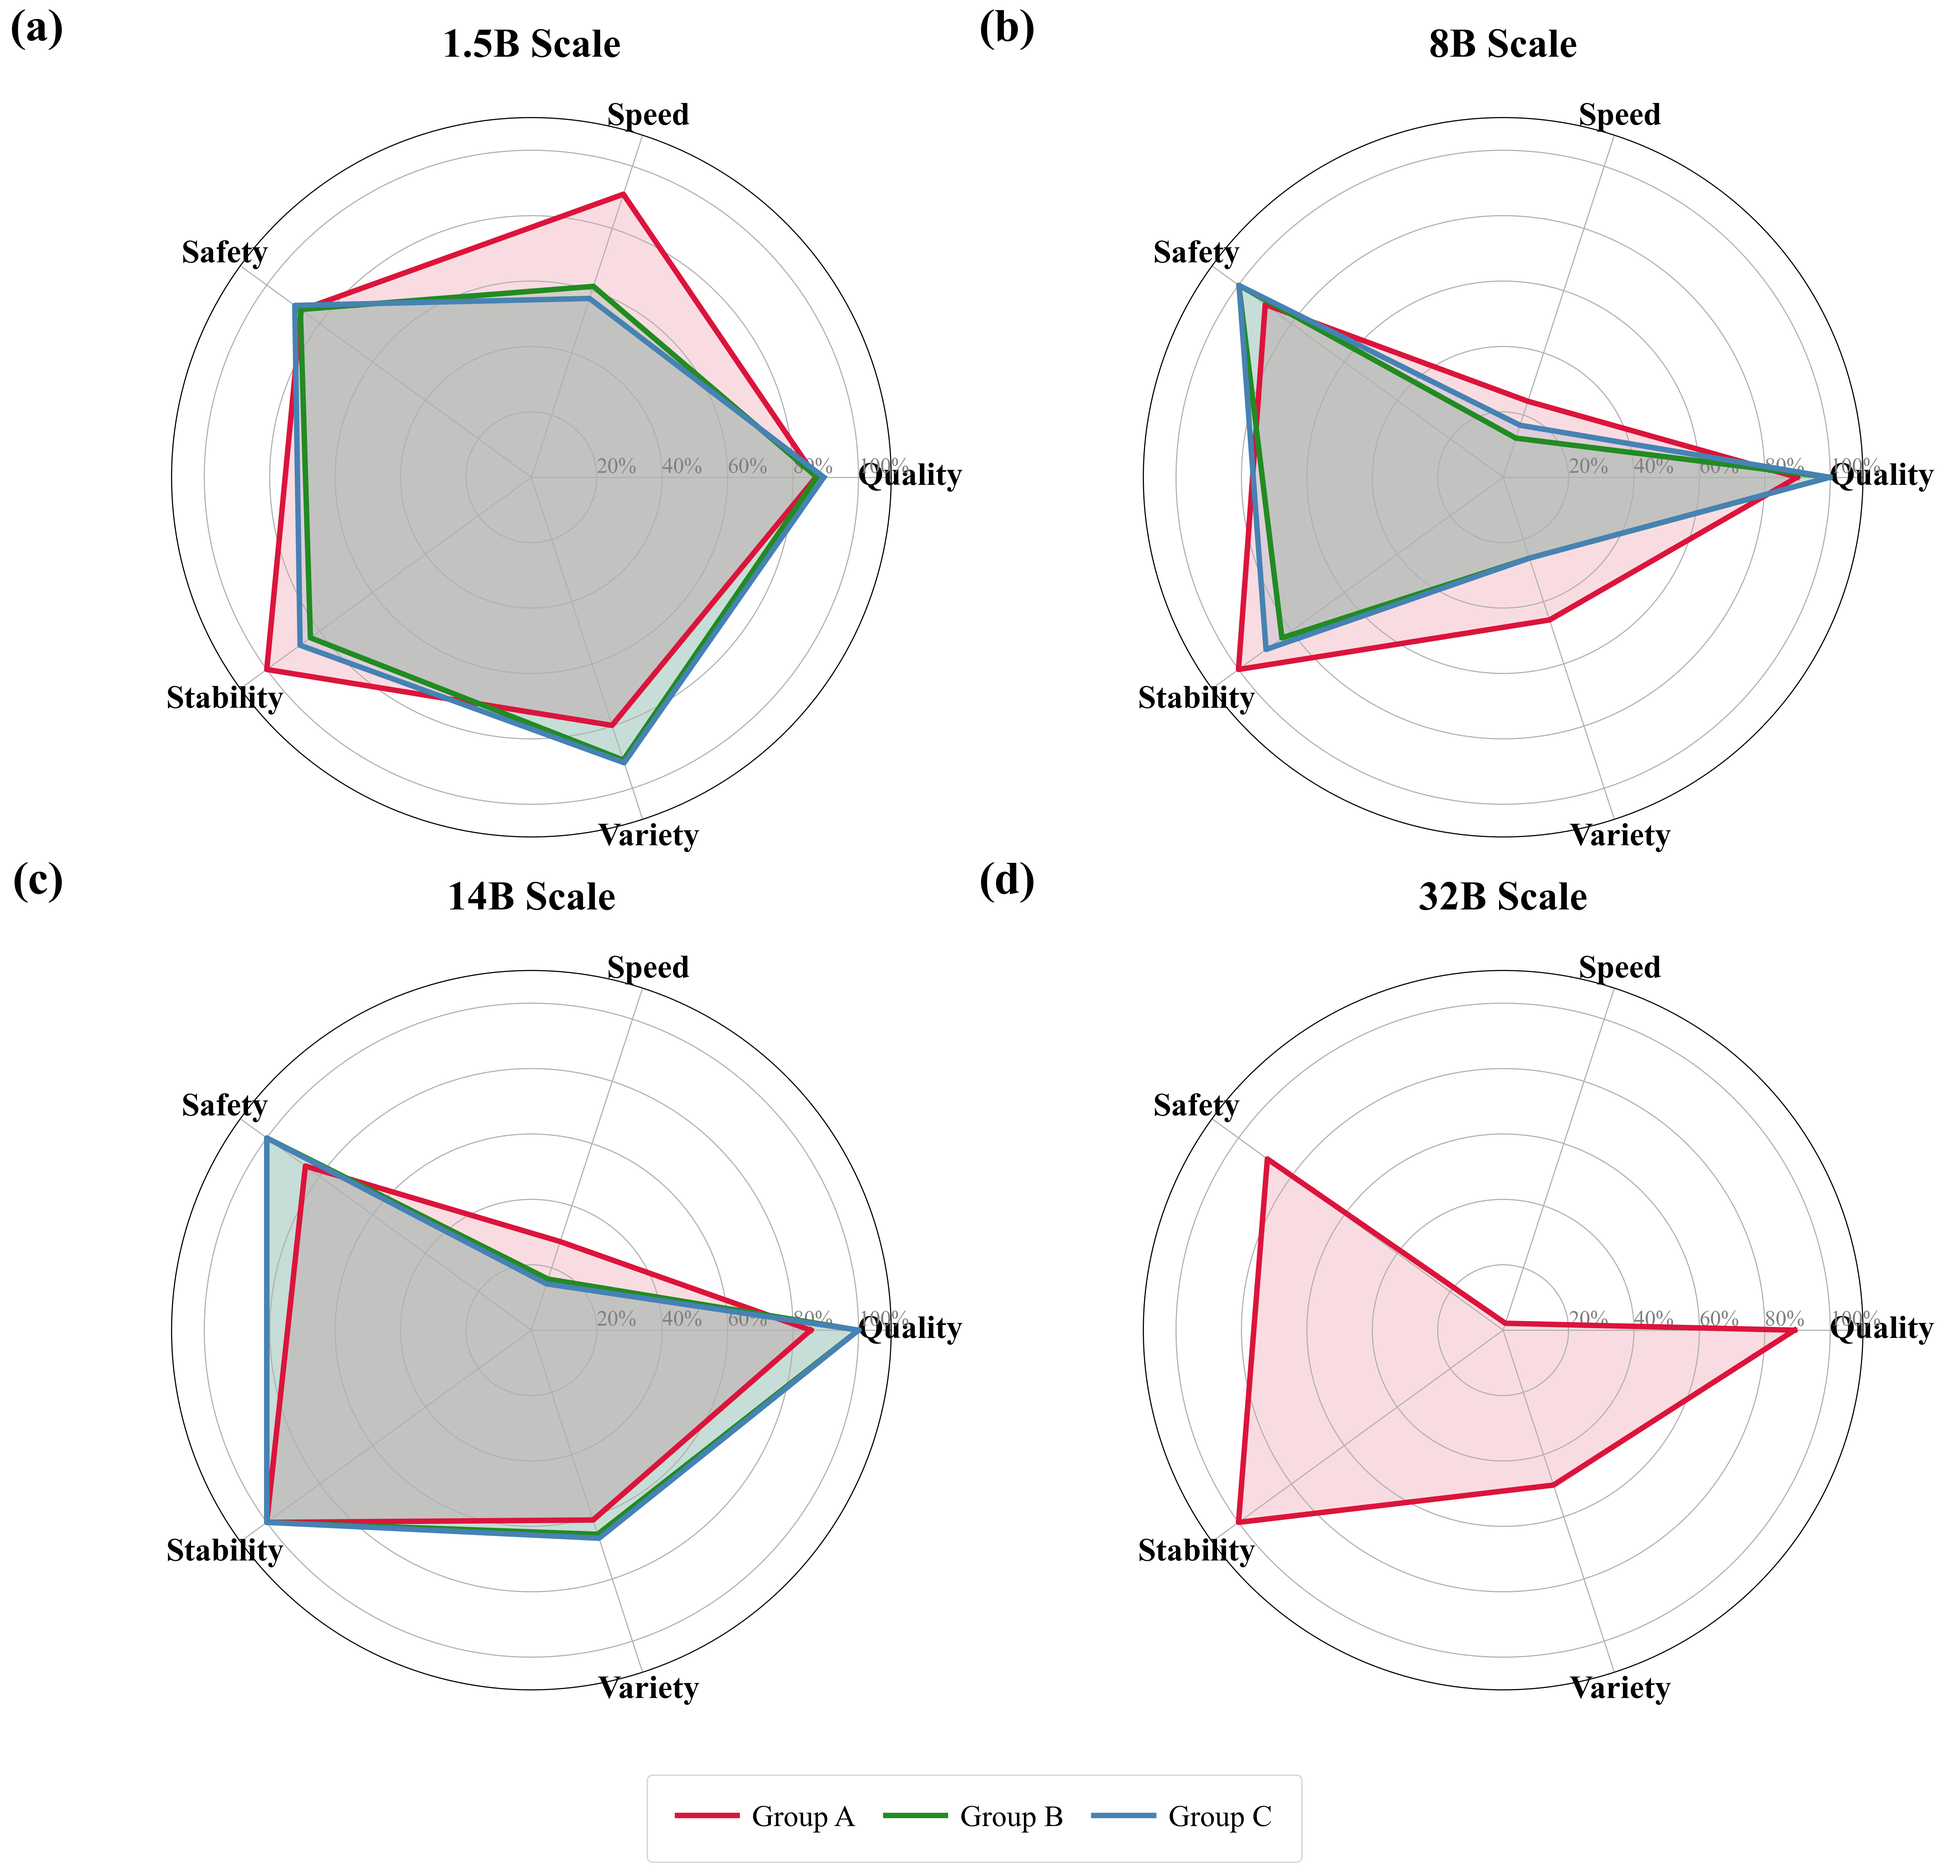
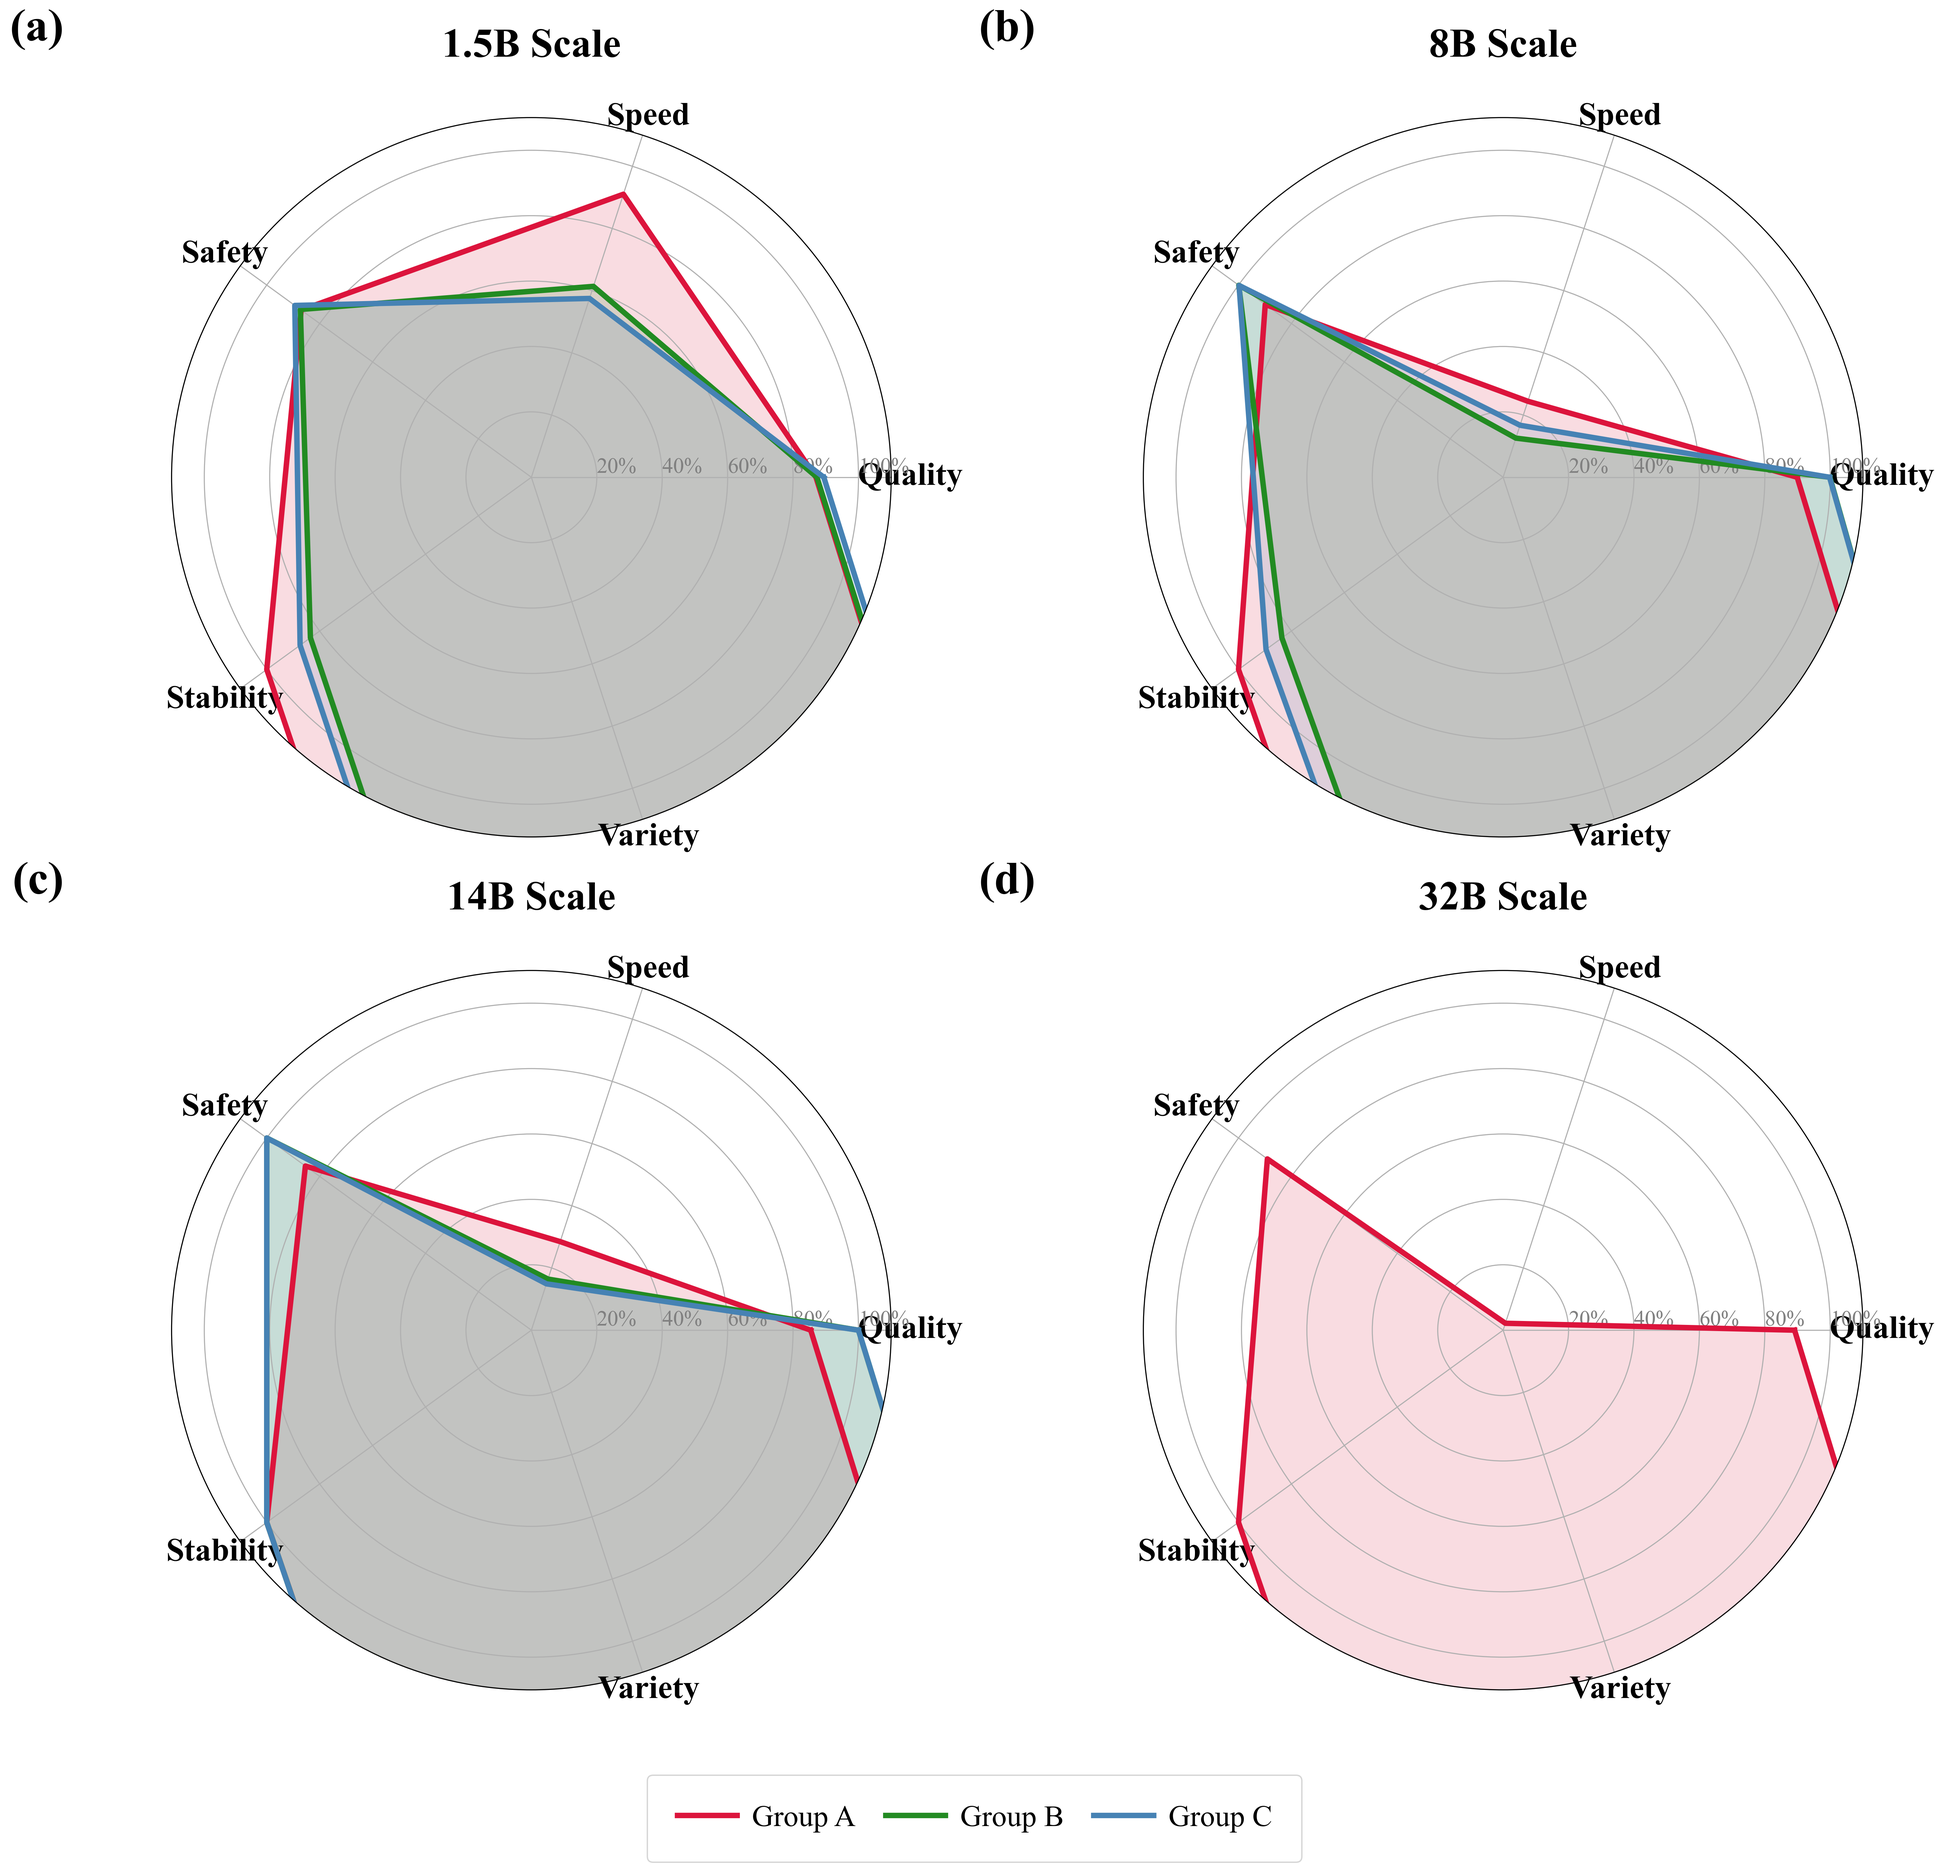
Synchronize SQ3 Variety metric with H_norm standard

diff --git a/examples/single_agent/analysis/SQ3_Final_Results/generate_audited_sq3.py b/examples/single_agent/analysis/SQ3_Final_Results/generate_audited_sq3.py
@@ -93,8 +93,11 @@ df['Speed'] = df.apply(calculate_speed, axis=1)
 entropy_path = BASE_DIR / "examples" / "single_agent" / "analysis" / "SQ2_Final_Results" / "yearly_entropy_audited.csv"
 if entropy_path.exists():
     df_entropy = pd.read_csv(entropy_path)
-    df_entropy_y1 = df_entropy[df_entropy['Year'] == 1][['Model', 'Group', 'Shannon_Entropy']]
-    df_entropy_y1['Variety'] = df_entropy_y1['Shannon_Entropy'] / 2.3219 # Standardized
+    # Use Year 1 snapshot and the standardized H_norm column
+    df_entropy_y1 = df_entropy[df_entropy['Year'] == 1][['Model', 'Group', 'Shannon_Entropy_Norm']]
+    df_entropy_y1 = df_entropy_y1.rename(columns={'Shannon_Entropy_Norm': 'Variety'})
+    # Scale to 100 for radar consistency if needed (Variety is often 0-100 on radar)
+    df_entropy_y1['Variety'] = df_entropy_y1['Variety'] * 100
     df = df.merge(df_entropy_y1[['Model', 'Group', 'Variety']], on=['Model', 'Group'], how='left')
 
 # 5. Export
